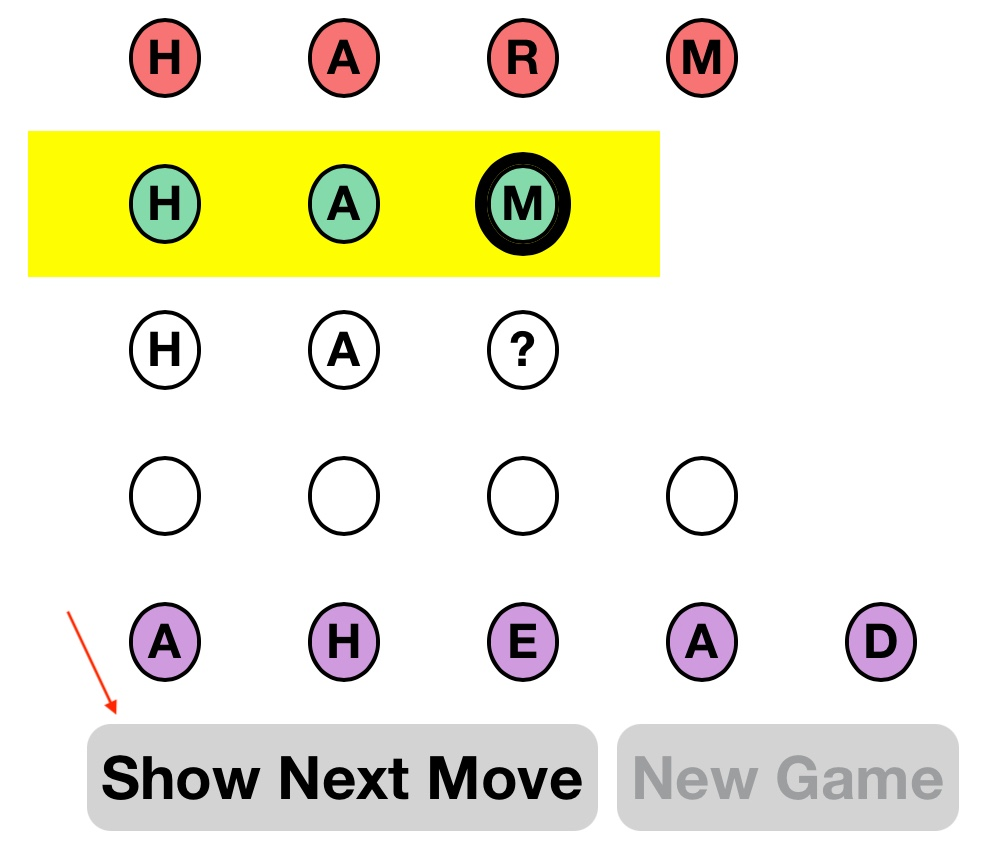
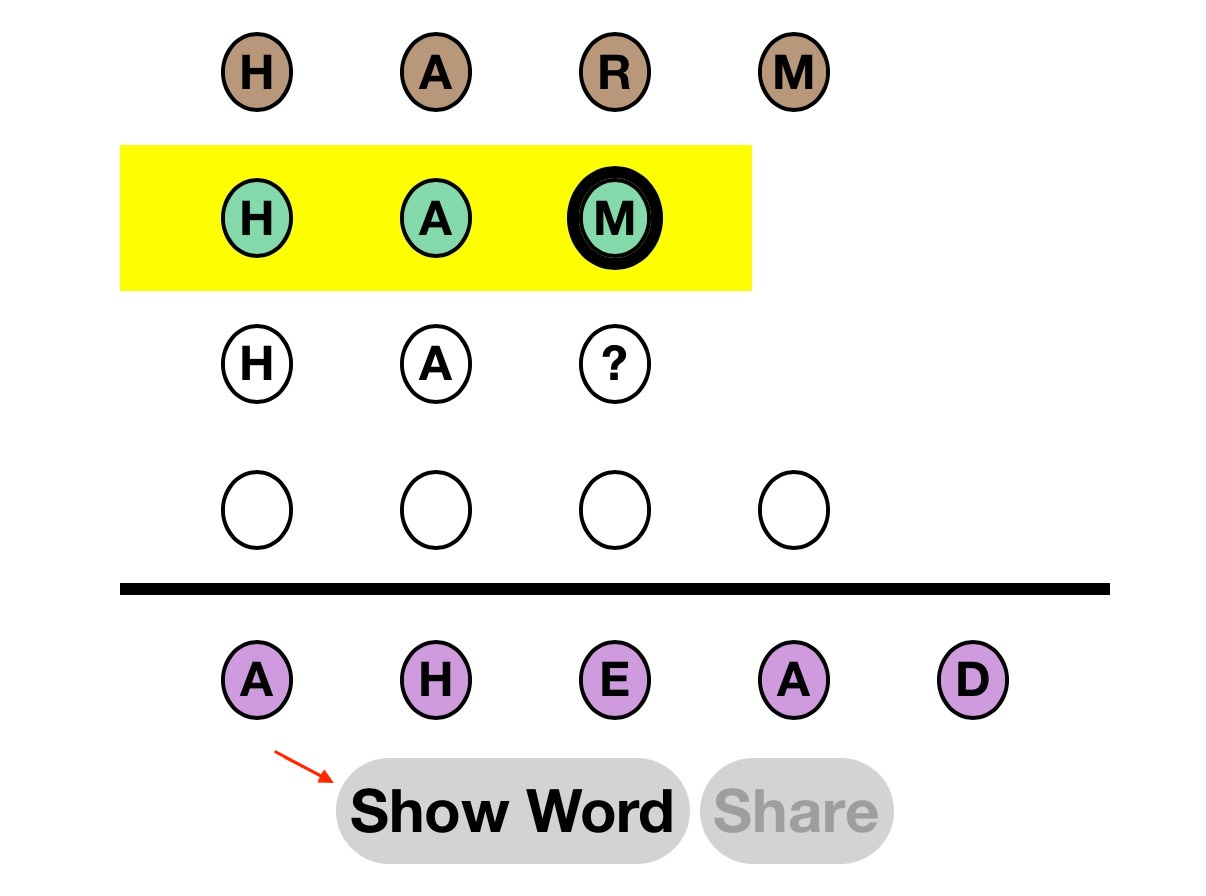
updated HelpDisplay and images

diff --git a/docs/javascript/HelpDisplay.js b/docs/javascript/HelpDisplay.js
@@ -26,12 +26,12 @@ class HelpDisplay extends AuxiliaryDisplay {
         <h2>
         Change words one step at a time (add/delete/change a letter)
         to get from the starting word to the target word in as few steps as possible.
-        If you have ${Const.TOO_MANY_EXTRA_STEPS} penalty moves you lose the game.
+        If you have ${Const.TOO_MANY_EXTRA_STEPS} more steps than the
+        solution WordChain found the game will end and the remaining moves words will be shown.
         </h2>
 
         <h3>
-        Every day there will be a new daily WordChain game --
-        share your daily game results from the Stats screen.
+        Every day there will be a new daily WordChain game.
         You can play up to ${Const.PRACTICE_GAMES_PER_DAY} practice games per day.
         </h3>
 
@@ -48,15 +48,15 @@ class HelpDisplay extends AuxiliaryDisplay {
         </p>
 
         <img src="/docs/images/Help01.v1.jpg" width="350px"/>
-        </p>
+        <p>
         Slide the letter tiles at the top until the letter you want appears;
         in this case, we will change it to an "H". Then tap the letter.
-        WordChain will spell the word out in the next row.
+        WordChain will spell out the word in the next row.
         </p>
 
         <img src="/docs/images/Help02.v1.jpg" width="350px"/>
         <p>
-        The green indicates you made the right guess.
+        The green indicates you made the best move -- you didn't add any extra steps.
         Now it's time to change the 'E' in the thick circle;
         we'll tap on 'D' to chain from HARE to HARD.
         You might notice that there is no thick circle
@@ -102,7 +102,10 @@ class HelpDisplay extends AuxiliaryDisplay {
 
         <img src="/docs/images/Help08.v1.jpg" width="350px"/>
         <p>
-        And with that, the game is over.
+        And with that, the game is over and the "Share" button is enabled.
+        If you click the "Share" button, your game play information will be
+        copied to the clipboard so you can share it by pasting it in
+        a text message, on Facebook, etc. We encourage that!
         </p>
         <p>
         Let's take another look at the start of the game.
@@ -132,32 +135,37 @@ class HelpDisplay extends AuxiliaryDisplay {
 
         <img src="/docs/images/Help10.v1.jpg" width="350px"/>
         <p>
-        Oops -- that wasn't the right choice: it made the solution
-        longer than WordChain's solution.
+        That choice made the solution longer than WordChain's solution.
         If your played word increases the number of steps from the start to the target word,
-        the background of its letters will be red, indicating a penalty.
+        the background of its letters will be brown.
+        You may have wondered what that line is in the display grid:
+        it indicates while you are playing what your current score is.
+        After our one extra word, we see there is one word below the line -- our current score is 1.
         </p>
 
         <img src="/docs/images/Help11.v1.jpg" width="350px"/>
         <p>
         We removed the 'R' to make HAM, but now we're stuck!
-        Tap "Show Next Move" to get unstuck.
+        Tap "Show Word" to get unstuck.
         </p>
 
         <img src="/docs/images/Help12.v1.jpg" width="350px"/>
         <p>
-        The gray letters indicate you got some help; this is also a penalty.
-        If you have ${Const.TOO_MANY_EXTRA_STEPS} penalty moves you lose the game.
+        The gray letters indicate you got some help.
+        Now we finish off the game as we did before.
         </p>
 
         <img src="/docs/images/Help13.v1.jpg" width="350px"/>
         <p>
-        If you reach the target word you win the game.
-        Your score is the number of penalty moves you made,
-        from 0 to ${Const.TOO_MANY_EXTRA_STEPS}.
-        In this case, HARM and HAD resulted in a score of 2.
+        If you reach the target word the game is over.
+        Your score is the number extra steps you had,
+        i.e. how much longer your solution was than WordChain's;
+        it will range from 0 to ${Const.TOO_MANY_EXTRA_STEPS}.
+        In this case, HARM was an extra word and our score is 1;
+        note that there is one word after the line.
         The first time this game was played,
         there were no mistakes and so the score was 0.
+        If you're familiar with golf, you might think of a score of 0 as "par".
         </p>
 
         <p>

diff --git a/docs/css/WordChain.css b/docs/css/WordChain.css
@@ -36,14 +36,14 @@
 
     /* ===== Cells ===== */
     --colorblind-good-bg-light:         #5f99e4;    /* blue */
-    --colorblind-bad-bg-light:          #825e5e;    /* brown; was orange (#ff9200) */
+    --colorblind-bad-bg-light:          #b9977a;    /* brown; was orange (#ff9200) */
     --colorblind-genius-bg-light:       #f0ce15;    /* gold */
-    --colorblind-dodo-bg-light:         #825e5e;    /* brown; was orange */
+    --colorblind-dodo-bg-light:         #b9977a;    /* brown; was orange */
     --colorblind-shown-bg-light:        #9c9ea0;    /* gray */
     --non-colorblind-good-bg-light:     #85daac;    /* green */
-    --non-colorblind-bad-bg-light:      #825e5e;    /* brown; was red */
+    --non-colorblind-bad-bg-light:      #b9977a;    /* brown; was red */
     --non-colorblind-genius-bg-light:   #f0ce15;    /* gold */
-    --non-colorblind-dodo-bg-light:     #825e5e;    /* brown; was red */
+    --non-colorblind-dodo-bg-light:     #b9977a;    /* brown; was red */
     --non-colorblind-shown-bg-light:    #9c9ea0;    /* gray */
 
     /*
@@ -52,14 +52,14 @@
 
     /* ===== Cells ===== */
     --colorblind-good-bg-dark:          #2d7be1;    /* blue */
-    --colorblind-bad-bg-dark:           #825e5e;    /* brown; was orange (#d58b04) */
+    --colorblind-bad-bg-dark:           #b9977a;    /* brown; was orange (#d58b04) */
     --colorblind-genius-bg-dark:        #f0ce15;    /* gold */
-    --colorblind-dodo-bg-dark :         #825e5e;    /* brown; was orange */
+    --colorblind-dodo-bg-dark :         #b9977a;    /* brown; was orange */
     --colorblind-shown-bg-dark:         #9c9ea0;    /* gray */
     --non-colorblind-good-bg-dark:      #28c128;    /* green */
-    --non-colorblind-bad-bg-dark:       #825e5e;    /* brown; was red */
+    --non-colorblind-bad-bg-dark:       #b9977a;    /* brown; was red */
     --non-colorblind-genius-bg-dark:    #f0ce15;    /* gold */
-    --non-colorblind-dodo-bg-dark :     #825e5e;    /* brown; was red */
+    --non-colorblind-dodo-bg-dark :     #b9977a;    /* brown; was red */
     --non-colorblind-shown-bg-dark:     #9c9ea0;    /* gray */
 }
 
@@ -455,6 +455,7 @@ button:enabled {
 
 .tr-wc-solution-line {
     border-bottom: 4px solid;
+    margin-bottom: 4px;
 }
 
 .td-game-active {
